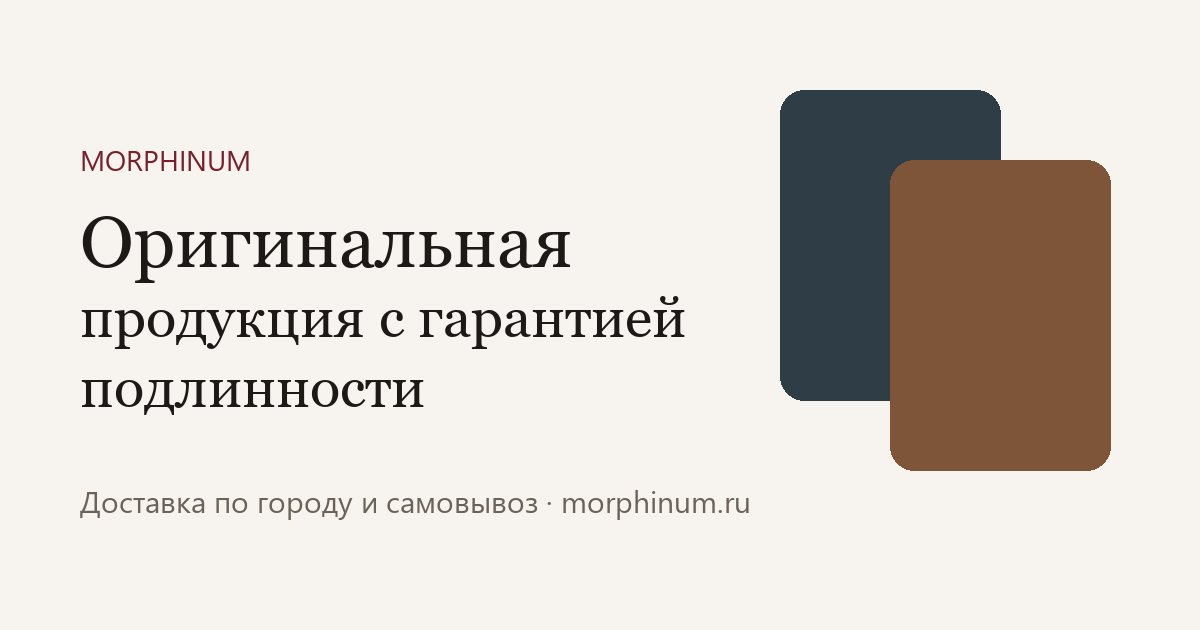
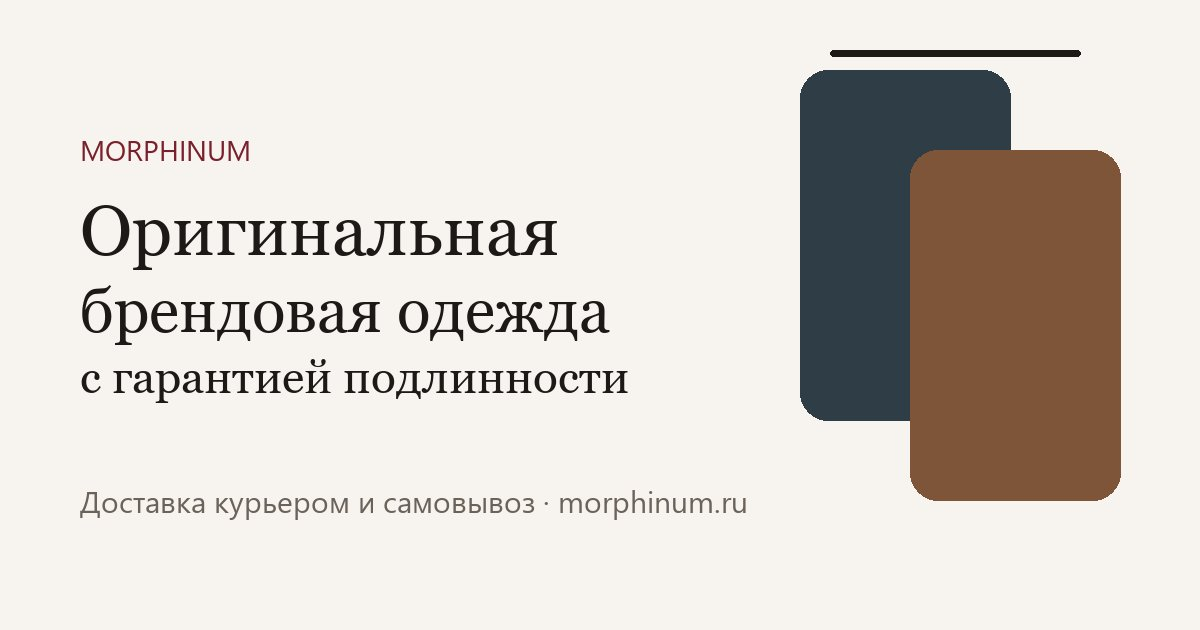
Магазин одежды: большой слайдер на главной, фавикон, SEO-описания страниц
Слайдер: 4 слайда из src/config/slides.ts (место под фото коллекций), автопрокрутка с паузой при наведении и фокусе, стрелки, точки, свайп, клавиатура, без анимации при prefers-reduced-motion; e2e-тесты слайдера. Слоган и описания под одежду, свои title/description/canonical у каталога, доставки и товаров, icon.svg и apple-icon, превью ссылок.

diff --git a/src/components/HeroSlider.tsx b/src/components/HeroSlider.tsx
@@ -1,0 +1,158 @@
+"use client";
+
+import Link from "next/link";
+import { useCallback, useEffect, useRef, useState } from "react";
+import type { Slide } from "@/config/slides";
+
+const INTERVAL_MS = 6000;
+
+/**
+ * Большой баннер на главной: автопрокрутка с паузой при наведении и фокусе,
+ * стрелки, точки, свайп и клавиатура. Неактивные слайды скрыты от экранных дикторов и фокуса.
+ */
+export function HeroSlider({ slides }: { slides: Slide[] }) {
+  const [index, setIndex] = useState(0);
+  const [paused, setPaused] = useState(false);
+  const [reducedMotion, setReducedMotion] = useState(false);
+  const touchX = useRef<number | null>(null);
+  const count = slides.length;
+
+  const go = useCallback((next: number) => setIndex(((next % count) + count) % count), [count]);
+
+  useEffect(() => {
+    const media = window.matchMedia("(prefers-reduced-motion: reduce)");
+    const update = () => setReducedMotion(media.matches);
+    update();
+    media.addEventListener("change", update);
+    return () => media.removeEventListener("change", update);
+  }, []);
+
+  // Автопрокрутка: выключена при наведении/фокусе и для тех, кто отключил анимацию в системе
+  useEffect(() => {
+    if (paused || reducedMotion || count < 2) return;
+    const timer = window.setTimeout(() => go(index + 1), INTERVAL_MS);
+    return () => window.clearTimeout(timer);
+  }, [index, paused, reducedMotion, count, go]);
+
+  return (
+    <section
+      aria-roledescription="carousel"
+      aria-label="Главные предложения"
+      className="relative -mx-4 overflow-hidden sm:-mx-6 md:mx-0 md:mt-6 md:rounded-3xl"
+      onMouseEnter={() => setPaused(true)}
+      onMouseLeave={() => setPaused(false)}
+      onFocus={() => setPaused(true)}
+      onBlur={(e) => {
+        if (!e.currentTarget.contains(e.relatedTarget as Node | null)) setPaused(false);
+      }}
+      onKeyDown={(e) => {
+        if (e.key === "ArrowRight") go(index + 1);
+        if (e.key === "ArrowLeft") go(index - 1);
+      }}
+      onTouchStart={(e) => (touchX.current = e.touches[0].clientX)}
+      onTouchEnd={(e) => {
+        if (touchX.current === null) return;
+        const dx = e.changedTouches[0].clientX - touchX.current;
+        if (Math.abs(dx) > 40) go(index + (dx < 0 ? 1 : -1));
+        touchX.current = null;
+      }}
+    >
+      <div className="relative h-[32rem] sm:h-[36rem] lg:h-[38rem]">
+        {slides.map((slide, i) => {
+          const active = i === index;
+          return (
+            <div
+              key={slide.id}
+              role="group"
+              aria-roledescription="slide"
+              aria-label={`${i + 1} из ${count}`}
+              aria-hidden={!active}
+              inert={!active}
+              className={`absolute inset-0 transition-opacity duration-700 motion-reduce:transition-none ${
+                active ? "z-10 opacity-100" : "z-0 opacity-0"
+              }`}
+              style={{
+                background: slide.image
+                  ? `linear-gradient(90deg, rgb(0 0 0 / 0.65), rgb(0 0 0 / 0.15)), url(${slide.image}) center / cover`
+                  : `radial-gradient(120% 90% at 85% 20%, color-mix(in srgb, ${slide.colors[0]} 70%, white), transparent 60%), linear-gradient(135deg, ${slide.colors[0]}, ${slide.colors[1]})`,
+              }}
+            >
+              {!slide.image && <Decor />}
+              <div className="relative mx-auto flex h-full max-w-6xl flex-col justify-center px-6 pt-10 pb-20 text-white sm:px-10 md:px-24">
+                <p className="text-sm tracking-[0.25em] text-white/75 uppercase">{slide.eyebrow}</p>
+                <h2 className="mt-4 max-w-xl font-serif text-4xl leading-[1.08] font-semibold sm:text-5xl lg:max-w-[52%] lg:text-6xl">
+                  {slide.title}
+                </h2>
+                <p className="mt-5 max-w-xl text-base leading-relaxed text-white/80 sm:text-lg lg:max-w-[48%]">{slide.text}</p>
+                <div className="mt-9">
+                  <Link
+                    href={slide.cta.href}
+                    className="inline-flex items-center rounded-md bg-white px-6 py-3 text-sm font-medium text-[#1c1917] transition-colors hover:bg-white/85"
+                  >
+                    {slide.cta.label}
+                  </Link>
+                </div>
+              </div>
+            </div>
+          );
+        })}
+      </div>
+
+      {count > 1 && (
+        <>
+          <div className="absolute inset-x-0 bottom-6 z-20 flex justify-center gap-2">
+            {slides.map((slide, i) => (
+              <button
+                key={slide.id}
+                type="button"
+                onClick={() => go(i)}
+                aria-label={`Слайд ${i + 1}: ${slide.eyebrow}`}
+                aria-current={i === index}
+                className="group flex h-6 items-center px-1"
+              >
+                <span
+                  className={`block h-1.5 rounded-full transition-all ${
+                    i === index ? "w-8 bg-white" : "w-3 bg-white/45 group-hover:bg-white/75"
+                  }`}
+                />
+              </button>
+            ))}
+          </div>
+          <Arrow direction="prev" onClick={() => go(index - 1)} />
+          <Arrow direction="next" onClick={() => go(index + 1)} />
+        </>
+      )}
+    </section>
+  );
+}
+
+function Arrow({ direction, onClick }: { direction: "prev" | "next"; onClick: () => void }) {
+  const prev = direction === "prev";
+  return (
+    <button
+      type="button"
+      onClick={onClick}
+      aria-label={prev ? "Предыдущий слайд" : "Следующий слайд"}
+      className={`absolute top-1/2 z-20 hidden h-12 w-12 -translate-y-1/2 items-center justify-center rounded-full bg-white/15 text-white backdrop-blur transition-colors hover:bg-white/30 md:flex ${
+        prev ? "left-4" : "right-4"
+      }`}
+    >
+      <svg viewBox="0 0 24 24" className="h-5 w-5" fill="none" stroke="currentColor" strokeWidth="2" aria-hidden="true">
+        <path d={prev ? "M15 5l-7 7 7 7" : "M9 5l7 7-7 7"} strokeLinecap="round" strokeLinejoin="round" />
+      </svg>
+    </button>
+  );
+}
+
+/** Декоративные «вешалки с вещами», пока на слайде нет фото */
+function Decor() {
+  return (
+    <div className="pointer-events-none absolute inset-y-0 right-0 hidden w-[42%] items-center justify-center lg:flex" aria-hidden="true">
+      <div className="relative h-80 w-80">
+        <div className="absolute top-0 left-6 h-72 w-44 rounded-[2rem] bg-white/12 ring-1 ring-white/20" />
+        <div className="absolute top-10 left-32 h-72 w-44 rounded-[2rem] bg-black/15 ring-1 ring-white/15" />
+        <div className="absolute -top-6 left-12 h-1 w-52 rounded-full bg-white/30" />
+      </div>
+    </div>
+  );
+}

diff --git a/src/app/page.tsx b/src/app/page.tsx
@@ -1,6 +1,9 @@
+import type { Metadata } from "next";
 import Link from "next/link";
+import { HeroSlider } from "@/components/HeroSlider";
 import { ProductCard } from "@/components/ProductCard";
 import { shop } from "@/config/shop";
+import { slides } from "@/config/slides";
 import { getProducts } from "@/server/queries";
 
 const PROMISES = [
@@ -9,43 +12,20 @@ const PROMISES = [
   { title: "Без регистрации", text: "Оформите заказ за минуту — менеджер перезвонит, уточнит детали и время доставки." },
 ];
 
-const HERO_COLORS = ["#2f3e46", "#7f5539"];
+export const metadata: Metadata = { alternates: { canonical: "/" } };
 
 export default async function HomePage() {
   const featured = (await getProducts()).filter((p) => p.stock > 0).slice(0, 3);
 
   return (
     <>
-      <section className="grid gap-10 py-16 md:grid-cols-[1.2fr_1fr] md:items-center md:py-24">
-        <div>
-          <p className="text-sm tracking-[0.2em] text-accent uppercase">{shop.name}</p>
-          <h1 className="mt-4 font-serif text-5xl leading-[1.05] font-semibold sm:text-6xl">{shop.tagline}</h1>
-          <p className="mt-6 max-w-lg text-lg leading-relaxed text-muted">
-            Небольшой магазин, где каждая позиция проверена лично. Никаких подделок и серого импорта — только то, за что мы
-            готовы ручаться.
-          </p>
-          <div className="mt-8 flex flex-wrap gap-3">
-            <Link href="/catalog" className="btn-primary">
-              Перейти в каталог
-            </Link>
-            <Link href="/delivery" className="btn-outline">
-              Доставка и оплата
-            </Link>
-          </div>
-        </div>
-        <div className="hidden grid-cols-2 gap-4 md:grid" aria-hidden="true">
-          {/* Пока каталог пуст — декоративные плашки в цветах витрины */}
-          {(featured.length > 0 ? featured.slice(0, 2).map((p) => p.color) : HERO_COLORS).map((color, i) => (
-            <div
-              key={i}
-              className={`aspect-[3/4] rounded-2xl ${i === 1 ? "mt-10" : ""}`}
-              style={{ background: `linear-gradient(160deg, ${color}, color-mix(in srgb, ${color} 55%, black))` }}
-            />
-          ))}
-        </div>
-      </section>
+      {/* Заголовок страницы для поисковиков и экранных дикторов; на экране его роль играют слайды */}
+      <h1 className="sr-only">
+        {shop.name} — {shop.tagline}
+      </h1>
+      <HeroSlider slides={slides} />
 
-      <section aria-labelledby="promises" className="border-y border-line py-12">
+      <section aria-labelledby="promises" className="mt-12 border-y border-line py-12">
         <h2 id="promises" className="sr-only">
           Почему мы
         </h2>

diff --git a/e2e/slider.spec.ts b/e2e/slider.spec.ts
@@ -1,0 +1,46 @@
+import { expect, test } from "@playwright/test";
+import { slides } from "../src/config/slides";
+
+test.describe("баннер на главной", () => {
+  test.beforeEach(async ({ page }) => {
+    // Без анимации: автопрокрутка выключена, тест не зависит от таймера
+    await page.emulateMedia({ reducedMotion: "reduce" });
+    await page.goto("/");
+  });
+
+  test("показан ровно один слайд, остальные скрыты от дикторов", async ({ page }) => {
+    const carousel = page.getByRole("region", { name: "Главные предложения" });
+    await expect(carousel.getByRole("heading", { level: 2 })).toHaveText(slides[0].title);
+    await expect(carousel.getByRole("group")).toHaveCount(1);
+  });
+
+  test("точки переключают слайды и отмечают текущий", async ({ page }) => {
+    const carousel = page.getByRole("region", { name: "Главные предложения" });
+    const last = slides.length - 1;
+    const dot = carousel.getByRole("button", { name: `Слайд ${last + 1}: ${slides[last].eyebrow}` });
+
+    await dot.click();
+
+    await expect(carousel.getByRole("heading", { level: 2 })).toHaveText(slides[last].title);
+    await expect(dot).toHaveAttribute("aria-current", "true");
+    await expect(carousel.getByRole("link", { name: slides[last].cta.label })).toBeVisible();
+  });
+
+  test("стрелки и клавиатура листают по кругу", async ({ page, isMobile }) => {
+    test.skip(isMobile, "на телефоне стрелок нет — листают свайпом и точками");
+    const carousel = page.getByRole("region", { name: "Главные предложения" });
+    const heading = carousel.getByRole("heading", { level: 2 });
+
+    await carousel.getByRole("button", { name: "Предыдущий слайд" }).click();
+    await expect(heading).toHaveText(slides[slides.length - 1].title);
+
+    await page.keyboard.press("ArrowRight");
+    await expect(heading).toHaveText(slides[0].title);
+  });
+
+  test("кнопка слайда ведёт на нужную страницу", async ({ page }) => {
+    const carousel = page.getByRole("region", { name: "Главные предложения" });
+    await carousel.getByRole("link", { name: slides[0].cta.label }).click();
+    await expect(page).toHaveURL(new RegExp(`${slides[0].cta.href}$`));
+  });
+});

diff --git a/src/config/slides.ts b/src/config/slides.ts
@@ -1,0 +1,49 @@
+/**
+ * Слайды большого баннера на главной.
+ * image — путь к фото в public/ (например "/slides/coat.jpg", горизонтальное, от 1600 px по ширине).
+ * Пока фото нет, слайд показывается на фоне из двух цветов.
+ */
+export type Slide = {
+  id: string;
+  eyebrow: string;
+  title: string;
+  text: string;
+  cta: { label: string; href: string };
+  colors: [string, string];
+  image?: string;
+};
+
+export const slides: Slide[] = [
+  {
+    id: "collection",
+    eyebrow: "Новая коллекция",
+    title: "Оригинальная одежда с гарантией подлинности",
+    text: "Только то, что проверили лично: никаких подделок и серого импорта. К каждой вещи — подтверждение подлинности.",
+    cta: { label: "Перейти в каталог", href: "/catalog" },
+    colors: ["#2f3e46", "#1b2429"],
+  },
+  {
+    id: "outerwear",
+    eyebrow: "Сезон",
+    title: "Верхняя одежда на холодный сезон",
+    text: "Пальто, куртки и пуховики от официальных дистрибьюторов — подберём размер и привезём на примерку.",
+    cta: { label: "Смотреть верхнюю одежду", href: "/catalog" },
+    colors: ["#7f5539", "#3f2a1c"],
+  },
+  {
+    id: "basics",
+    eyebrow: "Гардероб",
+    title: "Базовые вещи, которые носятся годами",
+    text: "Футболки, свитеры и брюки из хороших тканей — основа гардероба, к которой легко подобрать остальное.",
+    cta: { label: "Собрать базовый гардероб", href: "/catalog" },
+    colors: ["#588157", "#2c412b"],
+  },
+  {
+    id: "delivery",
+    eyebrow: "Доставка",
+    title: "Курьером по городу или самовывоз",
+    text: "Оформите заказ за минуту без регистрации — менеджер перезвонит и согласует удобное время.",
+    cta: { label: "Условия доставки", href: "/delivery" },
+    colors: ["#7a1f2b", "#3d0f16"],
+  },
+];

diff --git a/src/app/layout.tsx b/src/app/layout.tsx
@@ -18,13 +18,13 @@ const cormorant = Cormorant_Garamond({
 export const metadata: Metadata = {
   metadataBase: new URL(shop.url),
   title: { default: `${shop.name} — ${shop.tagline}`, template: `%s — ${shop.name}` },
-  description: `${shop.name}: ${shop.tagline.toLowerCase()}. Доставка по городу и самовывоз.`,
+  description: shop.description,
   openGraph: {
     type: "website",
     siteName: shop.name,
     locale: "ru_RU",
     title: `${shop.name} — ${shop.tagline}`,
-    description: `${shop.name}: ${shop.tagline.toLowerCase()}. Доставка по городу и самовывоз.`,
+    description: shop.description,
     images: [{ url: "/og.jpg", width: 1200, height: 630 }],
   },
   // Демо-витрина без товаров в поиск не попадает; после запуска (без флага демо) индексация включается сама

diff --git a/src/config/shop.ts b/src/config/shop.ts
@@ -4,7 +4,10 @@
  */
 export const shop = {
   name: "Morphinum",
-  tagline: "Оригинальная продукция с гарантией подлинности",
+  tagline: "Оригинальная брендовая одежда с гарантией подлинности",
+  /** Описание для поисковиков и превью ссылок (до ~155 символов) */
+  description:
+    "Интернет-магазин оригинальной брендовой одежды: верхняя одежда, базовый гардероб, аксессуары. Гарантия подлинности, доставка курьером и самовывоз.",
   url: process.env.NEXT_PUBLIC_SITE_URL ?? "http://localhost:3000",
 
   /**

diff --git a/src/app/catalog/page.tsx b/src/app/catalog/page.tsx
@@ -4,7 +4,11 @@ import { Suspense } from "react";
 import { ProductCard } from "@/components/ProductCard";
 import { getCategories, getProducts } from "@/server/queries";
 
-export const metadata: Metadata = { title: "Каталог" };
+export const metadata: Metadata = {
+  title: "Каталог одежды",
+  description: "Каталог оригинальной брендовой одежды Morphinum: верхняя одежда, базовые вещи и аксессуары с подтверждением подлинности.",
+  alternates: { canonical: "/catalog" },
+};
 
 export default function CatalogPage({ searchParams }: PageProps<"/catalog">) {
   return (

diff --git a/src/app/delivery/page.tsx b/src/app/delivery/page.tsx
@@ -1,7 +1,11 @@
 import type { Metadata } from "next";
 import { shop } from "@/config/shop";
 
-export const metadata: Metadata = { title: "Доставка и оплата" };
+export const metadata: Metadata = {
+  title: "Доставка и оплата",
+  description: "Доставка одежды курьером по городу и самовывоз, оплата при получении. Бесплатная курьерская доставка от суммы заказа.",
+  alternates: { canonical: "/delivery" },
+};
 
 export default function DeliveryPage() {
   const { courierPriceRub, freeCourierFromRub } = shop.delivery;

diff --git a/src/app/catalog/[slug]/page.tsx b/src/app/catalog/[slug]/page.tsx
@@ -15,8 +15,11 @@ export async function generateStaticParams() {
 }
 
 export async function generateMetadata({ params }: PageProps<"/catalog/[slug]">): Promise<Metadata> {
-  const product = await getProduct((await params).slug);
-  return product ? { title: product.name, description: product.description } : {};
+  const { slug } = await params;
+  const product = await getProduct(slug);
+  return product
+    ? { title: product.name, description: product.description, alternates: { canonical: `/catalog/${slug}` } }
+    : {};
 }
 
 export default async function ProductPage({ params }: PageProps<"/catalog/[slug]">) {
